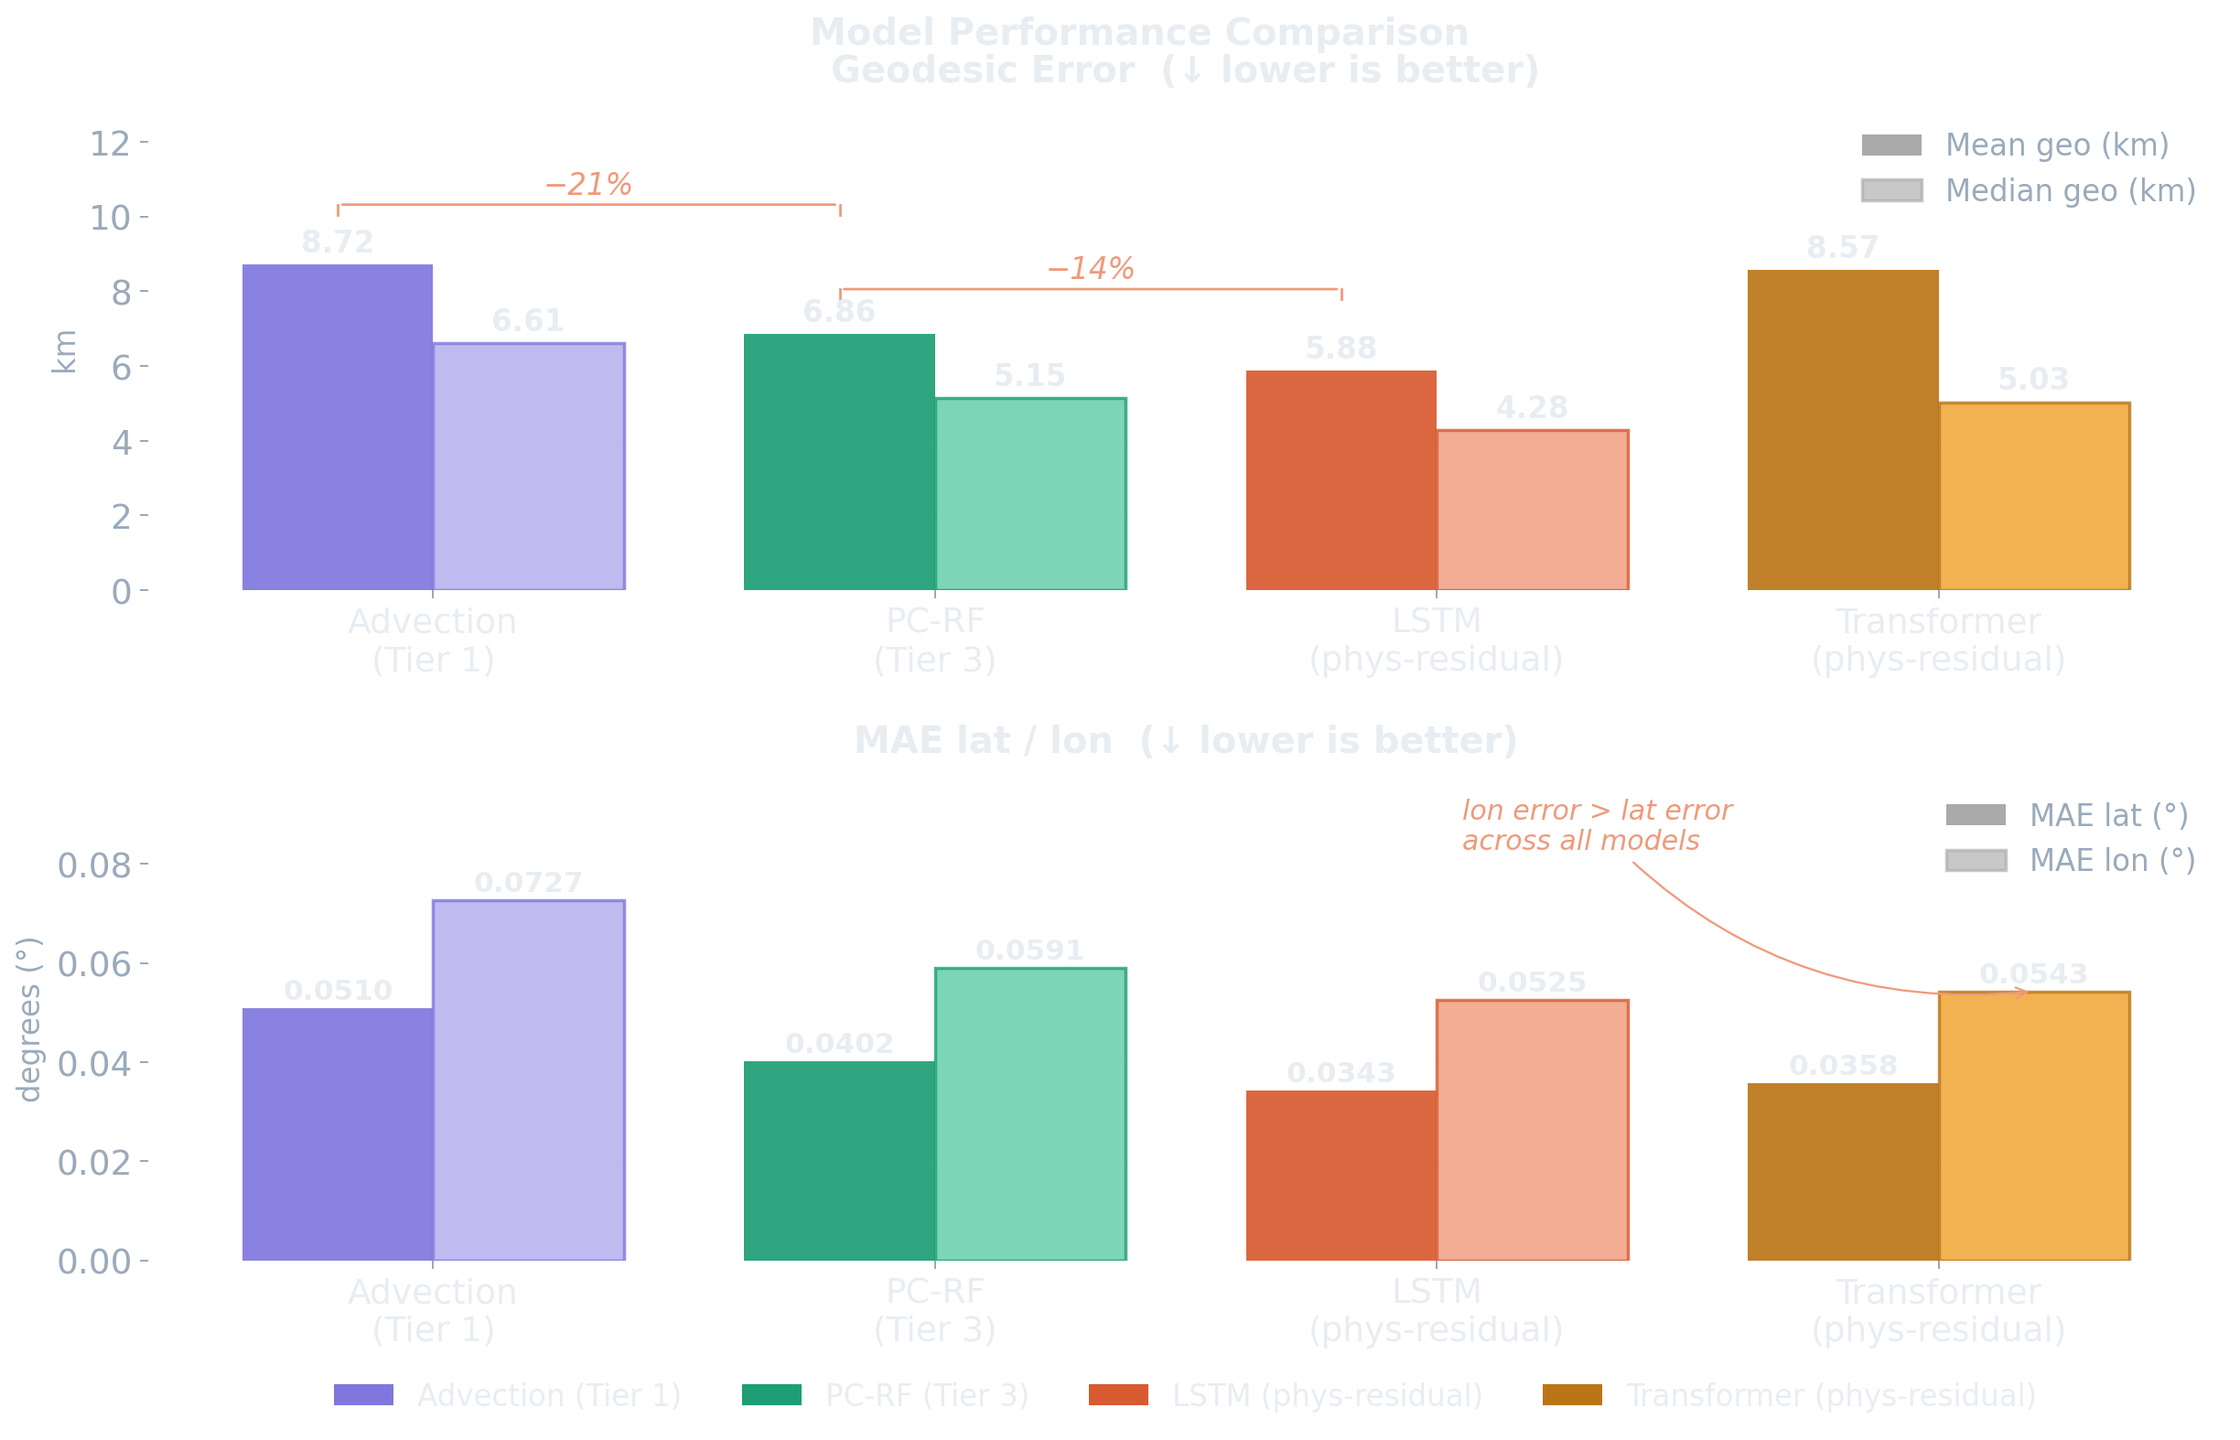
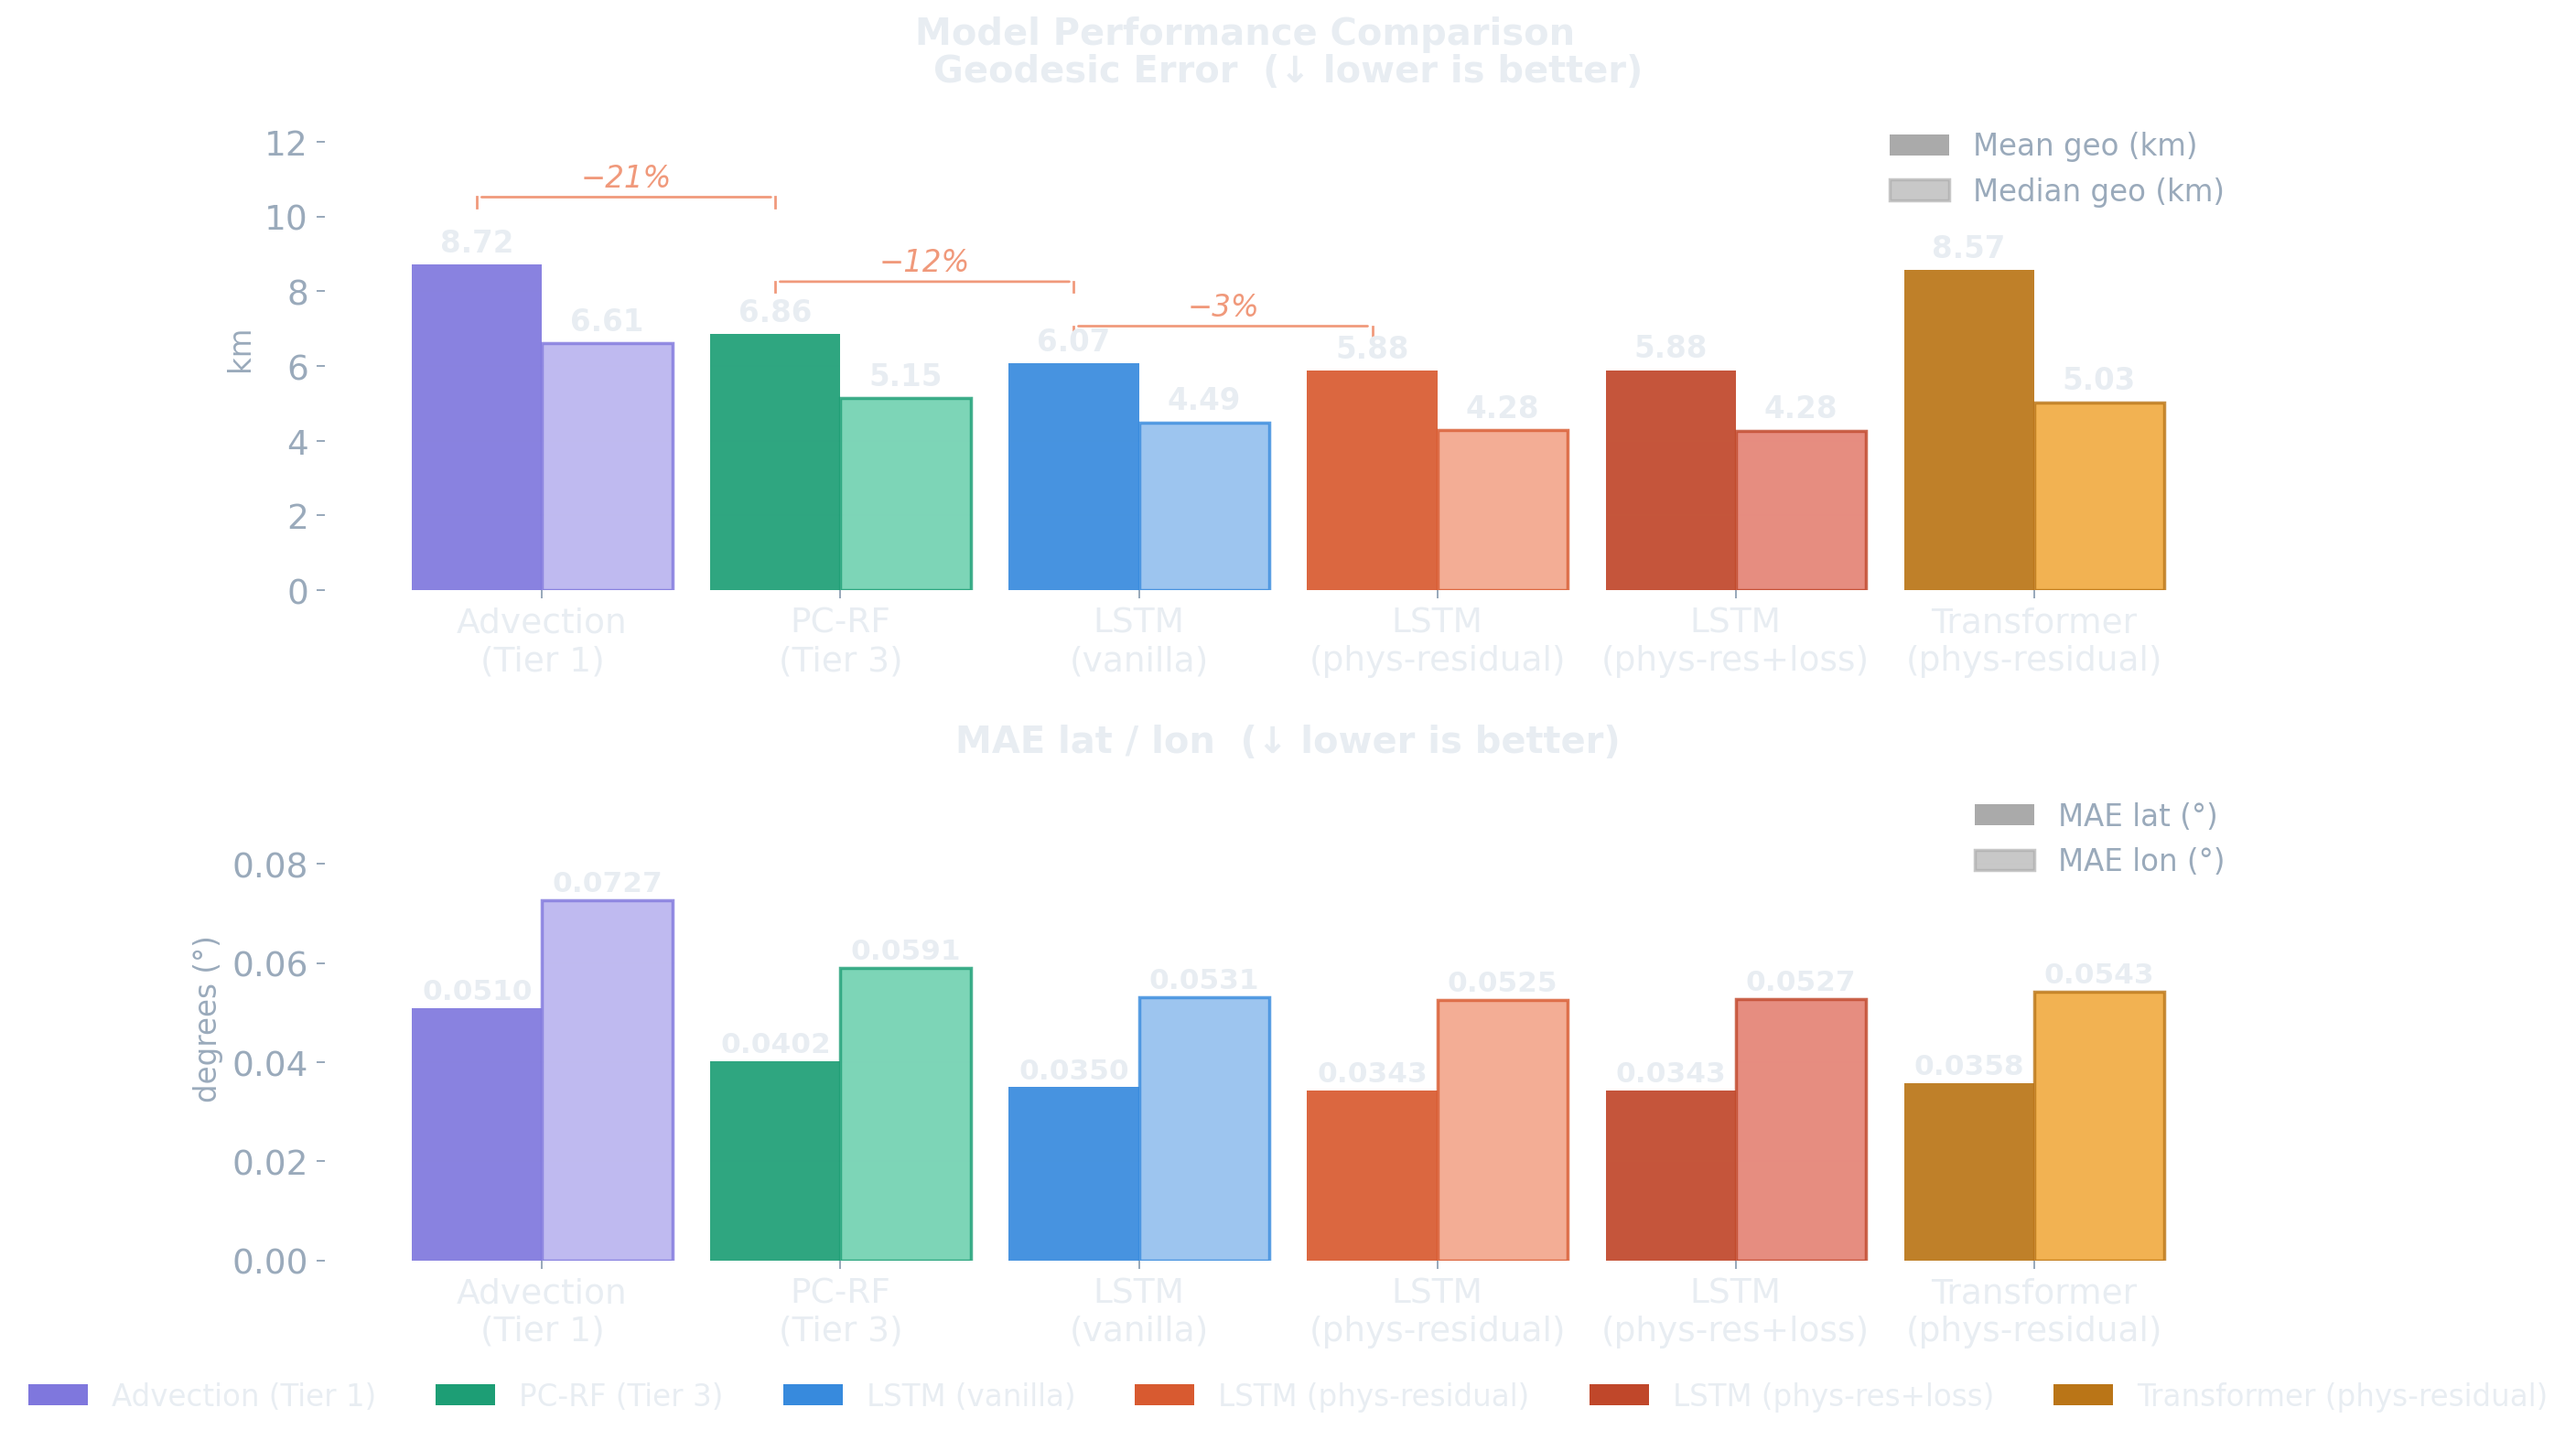
add lstm vanilla to the graph

diff --git a/visualization.py b/visualization.py
@@ -7,23 +7,25 @@ from matplotlib.gridspec import GridSpec
 models = [
     "Advection\n(Tier 1)",
     "PC-RF\n(Tier 3)",
+    "LSTM\n(vanilla)",
     "LSTM\n(phys-residual)",
+    "LSTM\n(phys-res+loss)",
     "Transformer\n(phys-residual)",
 ]
 
-mae_lat  = [0.05097, 0.04022, 0.03429, 0.03576]
-mae_lon  = [0.07267, 0.05906, 0.05254, 0.05433]
-mean_geo = [8.721,   6.859,   5.880,   8.570]
-med_geo  = [6.610,   5.147,   4.280,   5.032]
+mae_lat  = [0.05097, 0.04022, 0.03497, 0.03429, 0.03427, 0.03576]
+mae_lon  = [0.07267, 0.05906, 0.05311, 0.05254, 0.05273, 0.05433]
+mean_geo = [8.721,   6.859,   6.068,   5.880,   5.885,   8.570]
+med_geo  = [6.610,   5.147,   4.491,   4.280,   4.276,   5.032]
 
-COLORS      = ["#7F77DD", "#1D9E75", "#D85A30", "#BA7517"]
-COLORS_LITE = ["#AFA9EC", "#5DCAA5", "#F0997B", "#EF9F27"]
+COLORS      = ["#7F77DD", "#1D9E75", "#378ADD", "#D85A30", "#C0472A", "#BA7517"]
+COLORS_LITE = ["#AFA9EC", "#5DCAA5", "#85B7EB", "#F0997B", "#E07060", "#EF9F27"]
 TEXT   = "#e8edf2"
 MUTE   = "#9aaabb"
 ACCENT = "#F0997B"
 
-x     = np.arange(len(models))
-width = 0.38          # wider bars → tighter gaps between groups
+x     = np.arange(len(models)) * 0.78   # compress group spacing
+width = 0.34          # slightly narrower to fit 6 groups cleanly
 
 # font size constants — change here to tune globally
 FS_TICK   = 15        # x/y tick labels
@@ -42,7 +44,7 @@ def style_ax(ax):
     ax.set_axisbelow(True)
 
 # ── Figure ────────────────────────────────────────────────────────────────────
-fig = plt.figure(figsize=(14, 9), facecolor="none")
+fig = plt.figure(figsize=(13, 9), facecolor="none")
 gs  = GridSpec(2, 1, figure=fig,
                hspace=0.38,
                left=0.07, right=0.97,
@@ -66,8 +68,8 @@ for rect, val in zip(list(b1) + list(b2), mean_geo + med_geo):
              f"{val:.2f}", ha="center", va="bottom",
              fontsize=FS_VAL, color=TEXT, fontweight="bold")
 
-# bracket annotations
-for (i, j), yoff in zip([(0, 1), (1, 2)], [1.6, 1.2]):
+# bracket annotations: Advection→PC-RF, PC-RF→LSTM vanilla, vanilla→phys-residual
+for (i, j), yoff in zip([(0, 1), (1, 2), (2, 3)], [1.8, 1.4, 1.0]):
     pct = (mean_geo[i] - mean_geo[j]) / mean_geo[i] * 100
     xf  = x[i] - width / 2
     xt  = x[j] - width / 2
@@ -114,8 +116,8 @@ ax2.set_title("MAE lat / lon  (↓ lower is better)",
               color=TEXT, fontsize=FS_TITLE, fontweight="bold", pad=10)
 
 ax2.annotate("lon error > lat error\nacross all models",
-             xy=(3 + width / 2, mae_lon[3]),
-             xytext=(2.05, 0.083),
+             xy=(5 + width / 2, mae_lon[5]),
+             xytext=(3.2, 0.083),
              fontsize=FS_ANNOT - 1, color=ACCENT, fontstyle="italic",
              arrowprops=dict(arrowstyle="->", color=ACCENT,
                              lw=0.9, connectionstyle="arc3,rad=0.25"))
@@ -129,7 +131,7 @@ ax2.legend(handles=[pl, pn], fontsize=FS_LEGEND,
 # ── Shared model color legend ─────────────────────────────────────────────────
 patches = [mpatches.Patch(facecolor=c, label=m.replace("\n", " "))
            for c, m in zip(COLORS, models)]
-fig.legend(handles=patches, loc="lower center", ncol=4,
+fig.legend(handles=patches, loc="lower center", ncol=6,
            fontsize=FS_LEGEND, frameon=False, labelcolor=TEXT,
            bbox_to_anchor=(0.52, 0.01))
 
